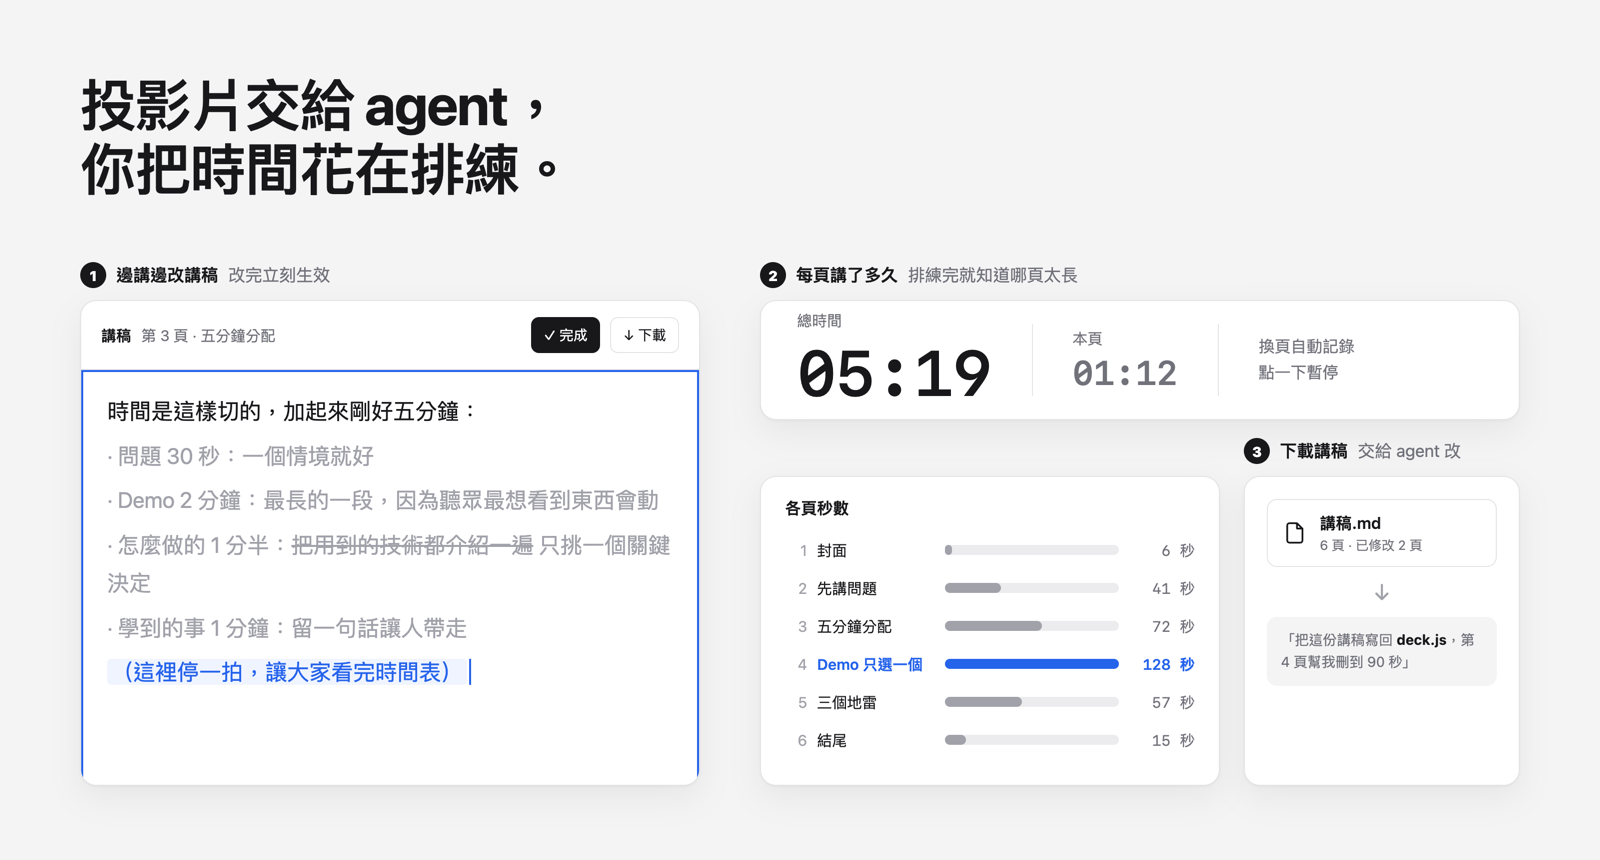
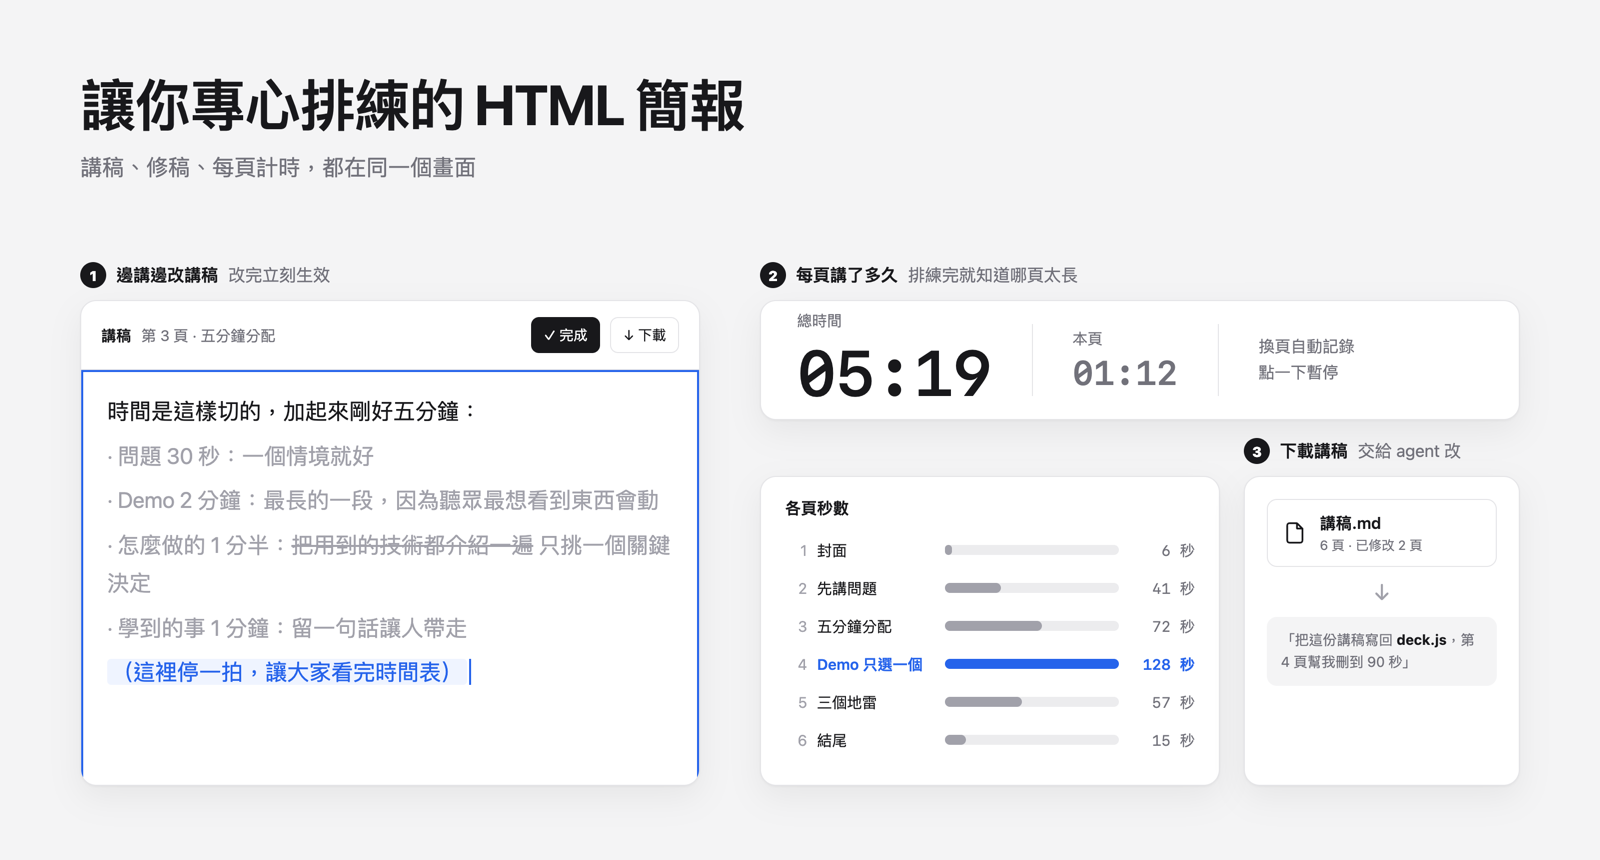
Hero: title '讓你專心排練的 HTML 簡報'

Changed region(s): [[0.0312, 0.0907, 0.4688, 0.2419]]

diff --git a/README.md b/README.md
@@ -8,7 +8,7 @@
 
 純靜態網頁，不用安裝、沒有 build，丟到任何靜態主機就能用。
 
-![投影片交給 agent，你把時間花在排練：邊講邊改講稿、每頁計時、下載講稿交給 agent 改](docs/hero.png)
+![讓你專心排練的 HTML 簡報：邊講邊改講稿、每頁計時、下載講稿交給 agent 改](docs/hero.png)
 
 ## 講者模式
 
